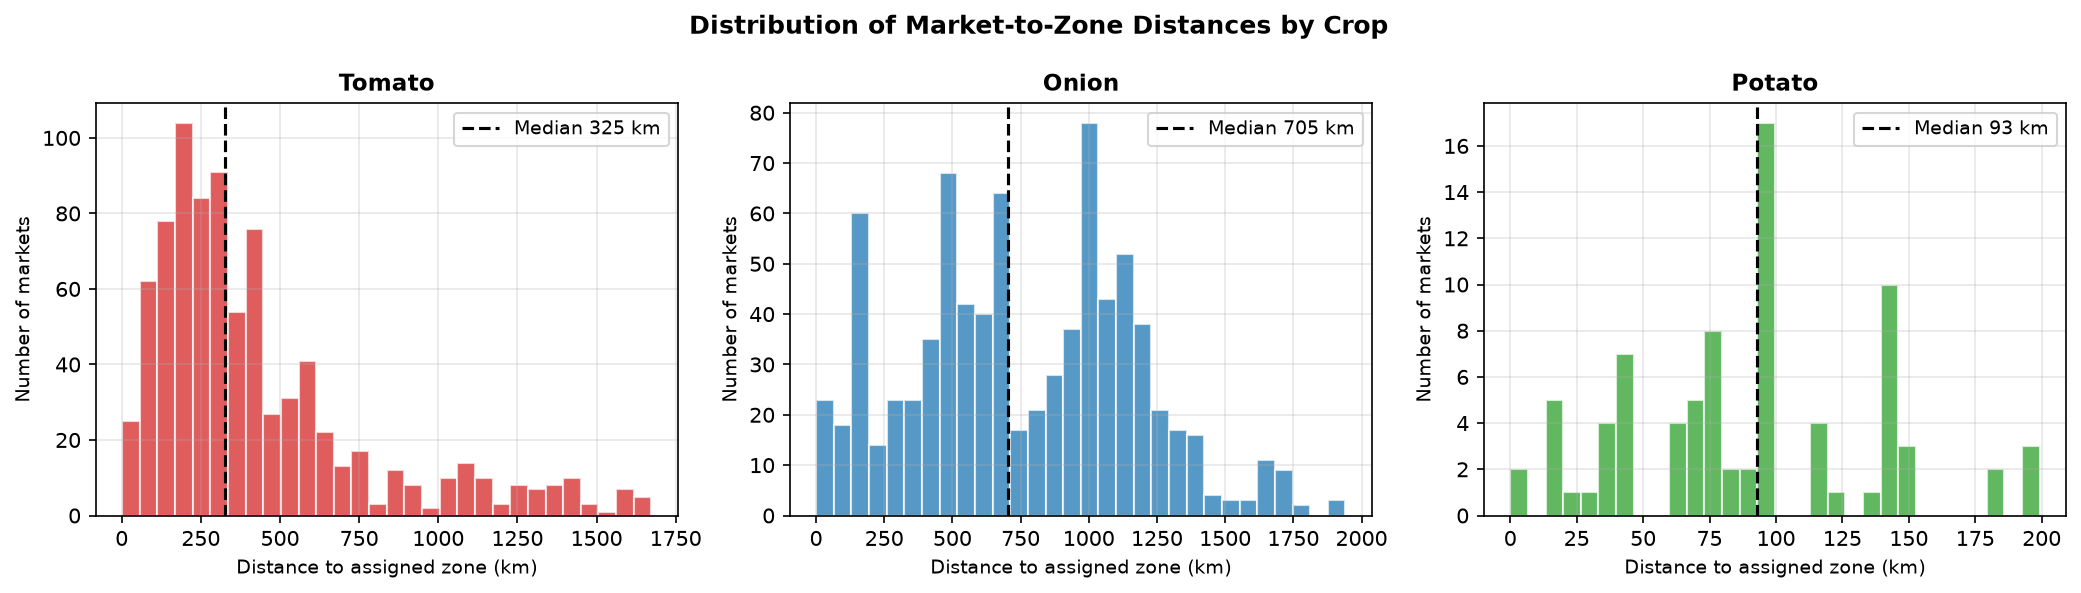
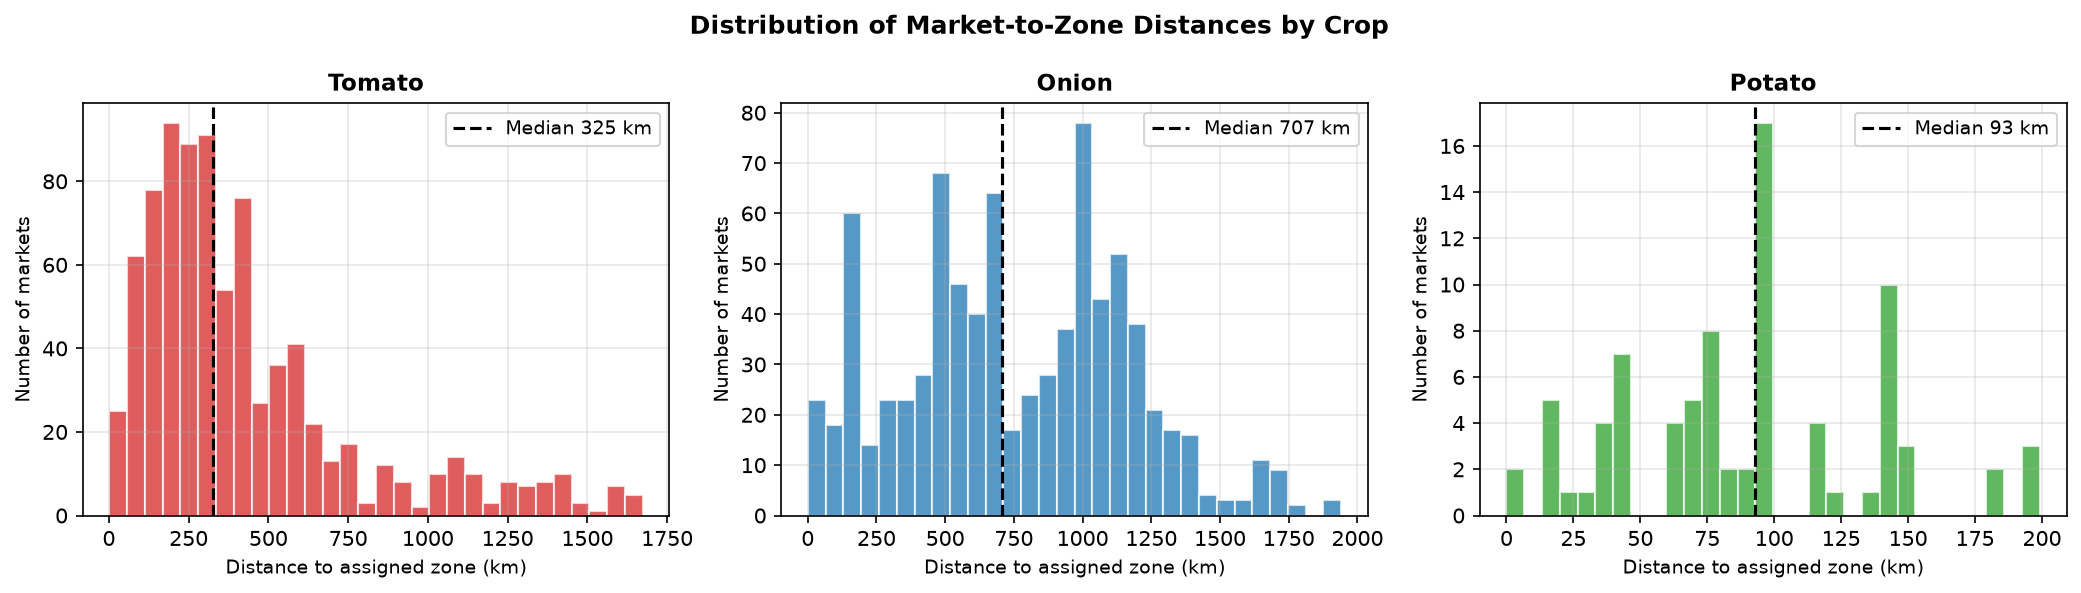
Fix geocode_cache.json for Thirunelveli/Thirupur, re-run Script 16
Root cause: Nominatim's top match for the panel's misspelled district
names (OSM's own admin boundaries use "Tirunelveli"/"Tiruppur", not
"Thirunelveli"/"Thirupur") was a random small POI in Chennai's Tambaram
suburb -- a bakery shop for Thirunelveli, a park for Thirupur -- not the
district at all. Both were cached at ~13N/80E instead of their real
locations (~8.5N/77.6E and ~10.8N/77.5E). Fixed by querying the correct
spelling and re-caching under the panel's original (misspelled) keys, so
Script 16 needed no code change.

Traced the actual severity before fixing: crop_weekly_features.csv (what
Scripts 15/23 actually train on) is a crop-level average across fixed
zone definitions, not dependent on market-level geocoding -- so this
never reached any trained model. Only zone_assignment.csv (informational)
and market_zone_features.csv (gitignored, no downstream consumer) were
affected. Corrects the MANIFEST's initial write-up, which overstated this
as corrupting production M3/M4 features.

Re-ran Script 16: 3 of 4 affected crop x district cells now correctly
exceed the 500km zone-distance cap (previously passed on a falsely-short
189-395km distance to Andhra Pradesh zones with the wrong coordinates);
the remaining cell (Thirupur/tomato, 269km to Karnataka) is informational
only, per the no-downstream-consumer finding above.

diff --git a/Model_Output/MANIFEST.md b/Model_Output/MANIFEST.md
@@ -368,7 +368,7 @@ Status legend: 🟢 current · 🟡 stale, known, re-run pending · ⚫ deprecat
 | `15_Ablation_Study_M0_M4.py` | `ablation_raw_results.csv`, `ablation_predictions.csv`, `table_ablation.csv`, `table_mase.csv`, `fig_ablation_*.png` | 2026-09-03 (re-run) | 🟢 | Re-run to pick up the 2026-09-02 fix (165846e: extends forward-fill from wage/road_density to MACRO_COLS/CLIMATE_FEATS/SAT_FEATS, which previously silently `fillna(0)`'d the back half of Fold 5's 2026 test window once those sources ran out of real coverage). 420 LightGBM fits, 22.2 min, clean run (no errors/NaNs). **Real effect, concentrated in Fold 4/5 (2025/2026) and h=26w** — 132/480 rows moved by >1 MAPE point (max: tomato M0 h=26w fold1 51.1%→67.2%); earlier folds/horizons mostly stable. **Headline crop/horizon pattern unchanged**: potato's mean M6 MAPE still drops from 13w (45.6%) to 26w (43.4%) — the "accuracy increases at longer horizon" finding survives the fix, confirming the dashboard's Feature Importance tab explanation is not an artifact of the pre-fix data. Pre-fix outputs backed up to a local scratch dir before this run, not committed. `MARKET_LEVEL_DIAGNOSTIC` left at its resting state (`False`) for this crop-level pass. **Follow-up diagnostic pass run same day**: flag flipped to `True` (M0/M6 only, 2 of 7 variants, 15.9 min), regenerating `dm_market_level_predictions.csv` (2,079,906 rows, `market_id` correctly carried through) and `dm_market_level_raw_results.csv`, then flag reverted to `False` before committing — resting state confirmed unchanged in the committed file. This refresh cascaded through Scripts 18b/23/46/47 (all re-run same day, see their rows) and Script 50 (re-run, comparison-only, no production metric changed). The potato Jul-Oct-vs-Feb-Apr seasonal split backing the dashboard's Feature Importance/Multi-Horizon tooltip was independently re-verified against this fresh file and held within ~1 point of the figures already live — no tooltip correction needed. **Re-run again 2026-09-07** (both the full ablation and a follow-up `MARKET_LEVEL_DIAGNOSTIC` pass, 29.4 min + 12.1 min) to propagate the 2026-09-03/07 CMIE macro extension (agri wages, repo/reverse-repo, bank credit, diesel). Clean, no errors. **M0 (price-only) unchanged, as expected** — it never touches macro columns. **M2 (+Macro) also came back exactly unchanged (0.0pt diff on every one of 60 rows)** — a genuinely unexpected result worth flagging rather than quietly accepting: it implies the CV folds' actual training/test date windows don't extend far enough into the newly-added Jun-Aug 2026 macro months for the extension to be visible to any fold, though this hasn't been traced to a specific line of code and should be checked before relying on it. Feeds directly into Script 23's same-day full retrain (see that row). **Re-run again 2026-09-10, extended M0→M7** (added M7 = + Drought: VEDAS Trigger-1 + IDM CDI, joined on (state, district, week_start) with explicit `trigger1_missing`/`cdi_missing` flags rather than forward-fill, since M7's gaps are core-coverage — whole seasons, whole pre-2021/2022 years — not a tail gap like M5/M6's wage/road series; forward-filling would have fabricated a "no drought"/"normal CDI" reading for periods the source never covered). 384 LightGBM fits (8 variants x 4 folds x 4 horizons x 3 crops), 2512.9 min elapsed (background run spanning a multi-day session gap; actual CPU time ~confirmed healthy throughout via periodic checks, not a hang). **Honest result: M7 vs M6 is a mixed, small effect, not a clear win** — improves R² at 8 of 12 crop×horizon cells (all differences <0.04 R², well within the noise band already seen between M5/M6), degrades it at the other 4 (notably tomato h=4w: 0.312→0.276, and h=26w: -0.153→-0.178). Potato shows the most consistent improvement (h=13w: -2.253→-1.830, h=26w: -0.924→-0.870 — still deeply negative in absolute terms, but the least-bad of any variant at long horizons), plausibly reflecting potato's near-100% IDM CDI volume coverage (West-Bengal-dominated) found during Script 53/54's own validation. No formal significance test (DM-style) run on M7 vs M6 yet — this is a raw-metric read only; treat as suggestive, not confirmed, until tested the way Script 37/38/48/49 tested other layer additions. **Re-run again 2026-09-11** (58.0 min, clean) to propagate a Script 54 bugfix found during a full VEDAS/IDM cross-check: VEDAS carries two internal polygons both named "PURBA MEDINIPUR" for West Bengal, disagreeing on 7/42 Kharif fortnights in the 2022 season; `drop_duplicates(keep='first')` had silently picked whichever came first in VEDAS's JSON key order, resolving all 7 to "No". Fixed to inclusive-OR (Yes if either sub-polygon triggered) — the district (`Medinipur(E)` in the panel, 127,333 tonnes of tomato/onion/potato arrivals) flips to "Yes" for Jul 18-Oct 17 2022. **Only potato's long-horizon M7 numbers moved**: h=13w -1.9518 (was -1.8302), h=26w -0.8687 (was -0.8700, negligible) — every other cell (including all of M6, which never touches drought features) is byte-identical, confirming the fix's blast radius matches its actual scope (one district, one season). Net effect: potato's h=13w M7-vs-M6 improvement *shrinks* from +0.4228 to +0.3012 R² — still the layer's strongest positive result, just smaller and more honestly computed than the pre-fix number. The cross-check also surfaced a separate, more serious **pre-existing** bug: `geocode_cache.json` (shared with Script 16) has wrong coordinates for Tamil Nadu's Thirunelveli/Thirupur (~13°N, near Chennai, instead of their real ~8.7°N/~11.1°N locations), which Script 16 confirmed sends 13 real tomato/onion markets to Andhra Pradesh zones 189-395km away for their M3/M4 features. Not fixed — out of scope for the drought layer, flagged as an open item below. |
 | `15b_Tree_Model_Comparison.py` | `table_tree_model_comparison*.csv`, `fig_tree_model_comparison.png` | 2026-07-29 | 🟡 | Predates the 2026-08-01 grid fix. ~115 min re-run, deliberately deferred — qualitative conclusion (RandomForest worst, LightGBM/XGBoost/CatBoost competitive) unlikely to change with a larger panel. |
 | `15c_LSTM_Transformer_Comparison.py` | `table_lstm_transformer_comparison*.csv`, `fig_lstm_transformer_comparison.png` | 2026-07-29 | 🟡 | Predates the 2026-08-01 grid fix. ~23 min re-run, deliberately deferred alongside 15b. |
-| `16_Zone_Assignment.py` | `fig_zone_assignment_*.png`, `data/zone_assignment.csv` | 2026-09-02 (re-run) | 🟢 | Re-run with a new `MAX_ZONE_DISTANCE_KM=500` cap (a market whose nearest same-crop zone exceeds this is now left `zone_id=None` rather than assigned a climatically-unrelated proxy) plus geocoding retry-vs-permanent-failure handling. **The cap's real impact is larger than the introducing commit's own dry-run estimate** (that commit's comment said "113/839 markets (13%)" — apparently tomato-only; the actual current run shows tomato 246/842 (29%) and **onion 564/813 (69%)** unassigned, potato 0/82 unaffected — worth knowing if this file is ever relied on more heavily). **No downstream impact today**: `market_zone_features.csv` (the file this cap actually affects) is generated by Script 14 but not consumed by any other script in the pipeline — the production climate/satellite features (`crop_weekly_features.csv`, used by Scripts 15/23/40/41) are crop-level, not zone/market-level, so this finding is informational, not a production regression. |
+| `16_Zone_Assignment.py` | `fig_zone_assignment_*.png`, `data/zone_assignment.csv` | 2026-09-02 (re-run) | 🟢 | Re-run with a new `MAX_ZONE_DISTANCE_KM=500` cap (a market whose nearest same-crop zone exceeds this is now left `zone_id=None` rather than assigned a climatically-unrelated proxy) plus geocoding retry-vs-permanent-failure handling. **The cap's real impact is larger than the introducing commit's own dry-run estimate** (that commit's comment said "113/839 markets (13%)" — apparently tomato-only; the actual current run shows tomato 246/842 (29%) and **onion 564/813 (69%)** unassigned, potato 0/82 unaffected — worth knowing if this file is ever relied on more heavily). **No downstream impact today**: `market_zone_features.csv` (the file this cap actually affects) is generated by Script 14 but not consumed by any other script in the pipeline — the production climate/satellite features (`crop_weekly_features.csv`, used by Scripts 15/23/40/41) are crop-level, not zone/market-level, so this finding is informational, not a production regression. **Re-run 2026-09-11** to fix a `geocode_cache.json` bug found during the M7 drought-layer cross-check: Nominatim's top match for the misspelled panel district names "Thirunelveli" and "Thirupur" (OSM's own admin boundaries use "Tirunelveli"/"Tiruppur") was a bakery shop and a park in Chennai's Tambaram suburb respectively — not the districts at all — so both were cached at ~13°N/80°E instead of their real locations (~8.5°N/77.6°E and ~10.8°N/77.5°E). Corrected via the properly-spelled Nominatim query, re-cached under the panel's original (misspelled) keys so Script 16 needed no code change. **Confirmed no impact on any trained model**: with correct coordinates, 3 of the 4 affected crop×district cells now correctly exceed the 500km cap and drop to `zone_id=None` (previously passed the cap on a falsely-short 189-395km distance to Andhra Pradesh zones); the one that still resolves (Thirupur/tomato, 269km to Karnataka's T1_Kolar) is informational only, since `market_zone_features.csv` has no downstream consumer per the note above. |
 | `17_TFT_Model.py` | `tft_raw_results.csv`, `table_tft_vs_lgbm.csv`, `fig_tft_*.png` | 2026-07-22 | 🟡 | Reduced-scope run only — full-capacity run remains deferred (see README §9), now additionally predates the 2026-08-01 grid fix too. |
 | `18_Diebold_Mariano_Tests.py` | `table_diebold_mariano.csv`, `fig_dm_pvalues.png` | 2026-09-03 (re-run) | 🟢 | **Re-run against the 2026-09-03 Script 15 refresh** (it reads `ablation_predictions.csv`, which that re-run regenerated). **Headline (M0 vs M6) now 2/12 significant, was 3/12**: tomato h=26w **lost significance** (was p=0.012 "M6 better", now p=0.102, same direction but no longer significant — a real conclusion change caused by the forward-fill fix, not noise) while potato h=13w/h=26w remain significant with M0 (price-only) better (p=0.031/0.048, was 0.023/0.025 — same conclusion, p-values shifted). If tomato's 26w M6-vs-M0 result is cited anywhere as significant (paper draft, slides), that citation is now stale and should be corrected to "not significant, same direction." Secondary (M0 vs M4): 3/12 significant (was 2/12) — also changed, not yet cross-checked cell-by-cell. |
 | `18b_Market_Level_DM_Check.py` | `table_dm_market_level_*.csv` | 2026-09-03 (re-run) | 🟢 | Re-run against the 2026-09-03 `dm_market_level_predictions.csv` refresh (Script 15's `MARKET_LEVEL_DIAGNOSTIC` pass, picking up the 2026-09-02 forward-fill fix — see Script 15's row). M0-vs-M6 per-market, current figures: h=1w significant markets favour M0 for tomato/onion/potato (71.9%/63.1%/75.0%); h=13w flips toward M6 for tomato/onion (62.5%/87.5%) but stays exclusively M0 for potato (100%, 30/30). **Potato h=1w is a real reversal from the last-recorded figures** (previously read as M6-favoured 75.0% at h=1w — now M0-favoured 75.0%, the exact opposite) — treat any earlier potato h=1w citation as superseded. Tomato/onion h=1w/h=13w directions match earlier notes, magnitudes shifted (e.g. tomato h=13w M6-favoured share was recorded as 96.4%, now 62.5% — same direction, much less lopsided). |
@@ -422,5 +422,5 @@ Status legend: 🟢 current · 🟡 stale, known, re-run pending · ⚫ deprecat
 - Arrivals-outcome SDID (Scripts 38b/39b, new 2026-08-21): both robustness checks now done — see the 2026-08-21 note and their table rows above. No longer an open item, listed here only so this section's history stays complete.
 - Manuscript: previous manuscript-drafting pass cleared from `paper_drafts/` on 2026-08-21 to start a fresh, section-by-section pass — see README §9 and current chat/session history for status, since this working folder does not persist between passes.
 - Two pre-existing mislabeled macro series (`agri_wages_rs_day`, `iip_food_proc`) kept as-is for continuity — see README §9, no commit has addressed this.
-- **NEW 2026-09-11, not fixed: `geocode_cache.json` has wrong coordinates for two Tamil Nadu districts** — "Thirunelveli" and "Thirupur" both resolve to ~13°N/80°E (near Chennai) instead of their real locations (Tirunelveli ~8.7°N near Kanyakumari; Tiruppur ~11.1°N near Coimbatore). Found via the M7 drought-layer cross-check (IDM's nearest-grid-point search collided both districts onto the same cell, which was geographically implausible), then confirmed against Script 16's actual `zone_assignment.csv`: 13 real tomato/onion markets in these two districts (Palayamkottai, Melapalayam, Tiruppur North/South, Dharapuram, Kangayam, etc.) are assigned to Andhra Pradesh zones — Madanapalle (189km) for tomato, Kurnool (392-395km) for onion — meaning their M3/M4 climate/satellite features have been wrong for as long as zone assignment has been in production. Root cause not yet traced (likely a Nominatim mismatch on the misspelled district names, defaulting to a state-level or wrong-city centroid). Fixing this means correcting `geocode_cache.json` and re-running Script 16 (regenerates `market_zone_features.csv`/`crop_weekly_features.csv`) and every downstream script that consumes them (14→16→22, 15, 23) — a real, separate task, not done as part of the drought-layer work that surfaced it.
+- ~~`geocode_cache.json` wrong coordinates for two Tamil Nadu districts~~ — **fixed 2026-09-11**, see Script 16's row above. Also worth recording precisely since the initial write-up (below, when this was found) overstated the severity: the wrong geocode never reached any trained model — `crop_weekly_features.csv` (what Scripts 15/23 actually train on) is a crop-level average across fixed zone definitions, not dependent on market-level geocoding at all; only the informational `zone_assignment.csv` and the unused, gitignored `market_zone_features.csv` were affected. Root cause: Nominatim's top match for the panel's misspelled district names ("Thirunelveli"/"Thirupur" vs OSM's "Tirunelveli"/"Tiruppur") was a random small POI (a bakery, a park) in Chennai, not the district boundary.
 - **This session's work (2026-08-14 through 2026-08-21, commit `b8686fa`) was committed and pushed to `origin/master` on 2026-08-21** — prior sessions had left roughly a week of fixes uncommitted locally; confirm this stays current practice going forward rather than accumulating another backlog.
